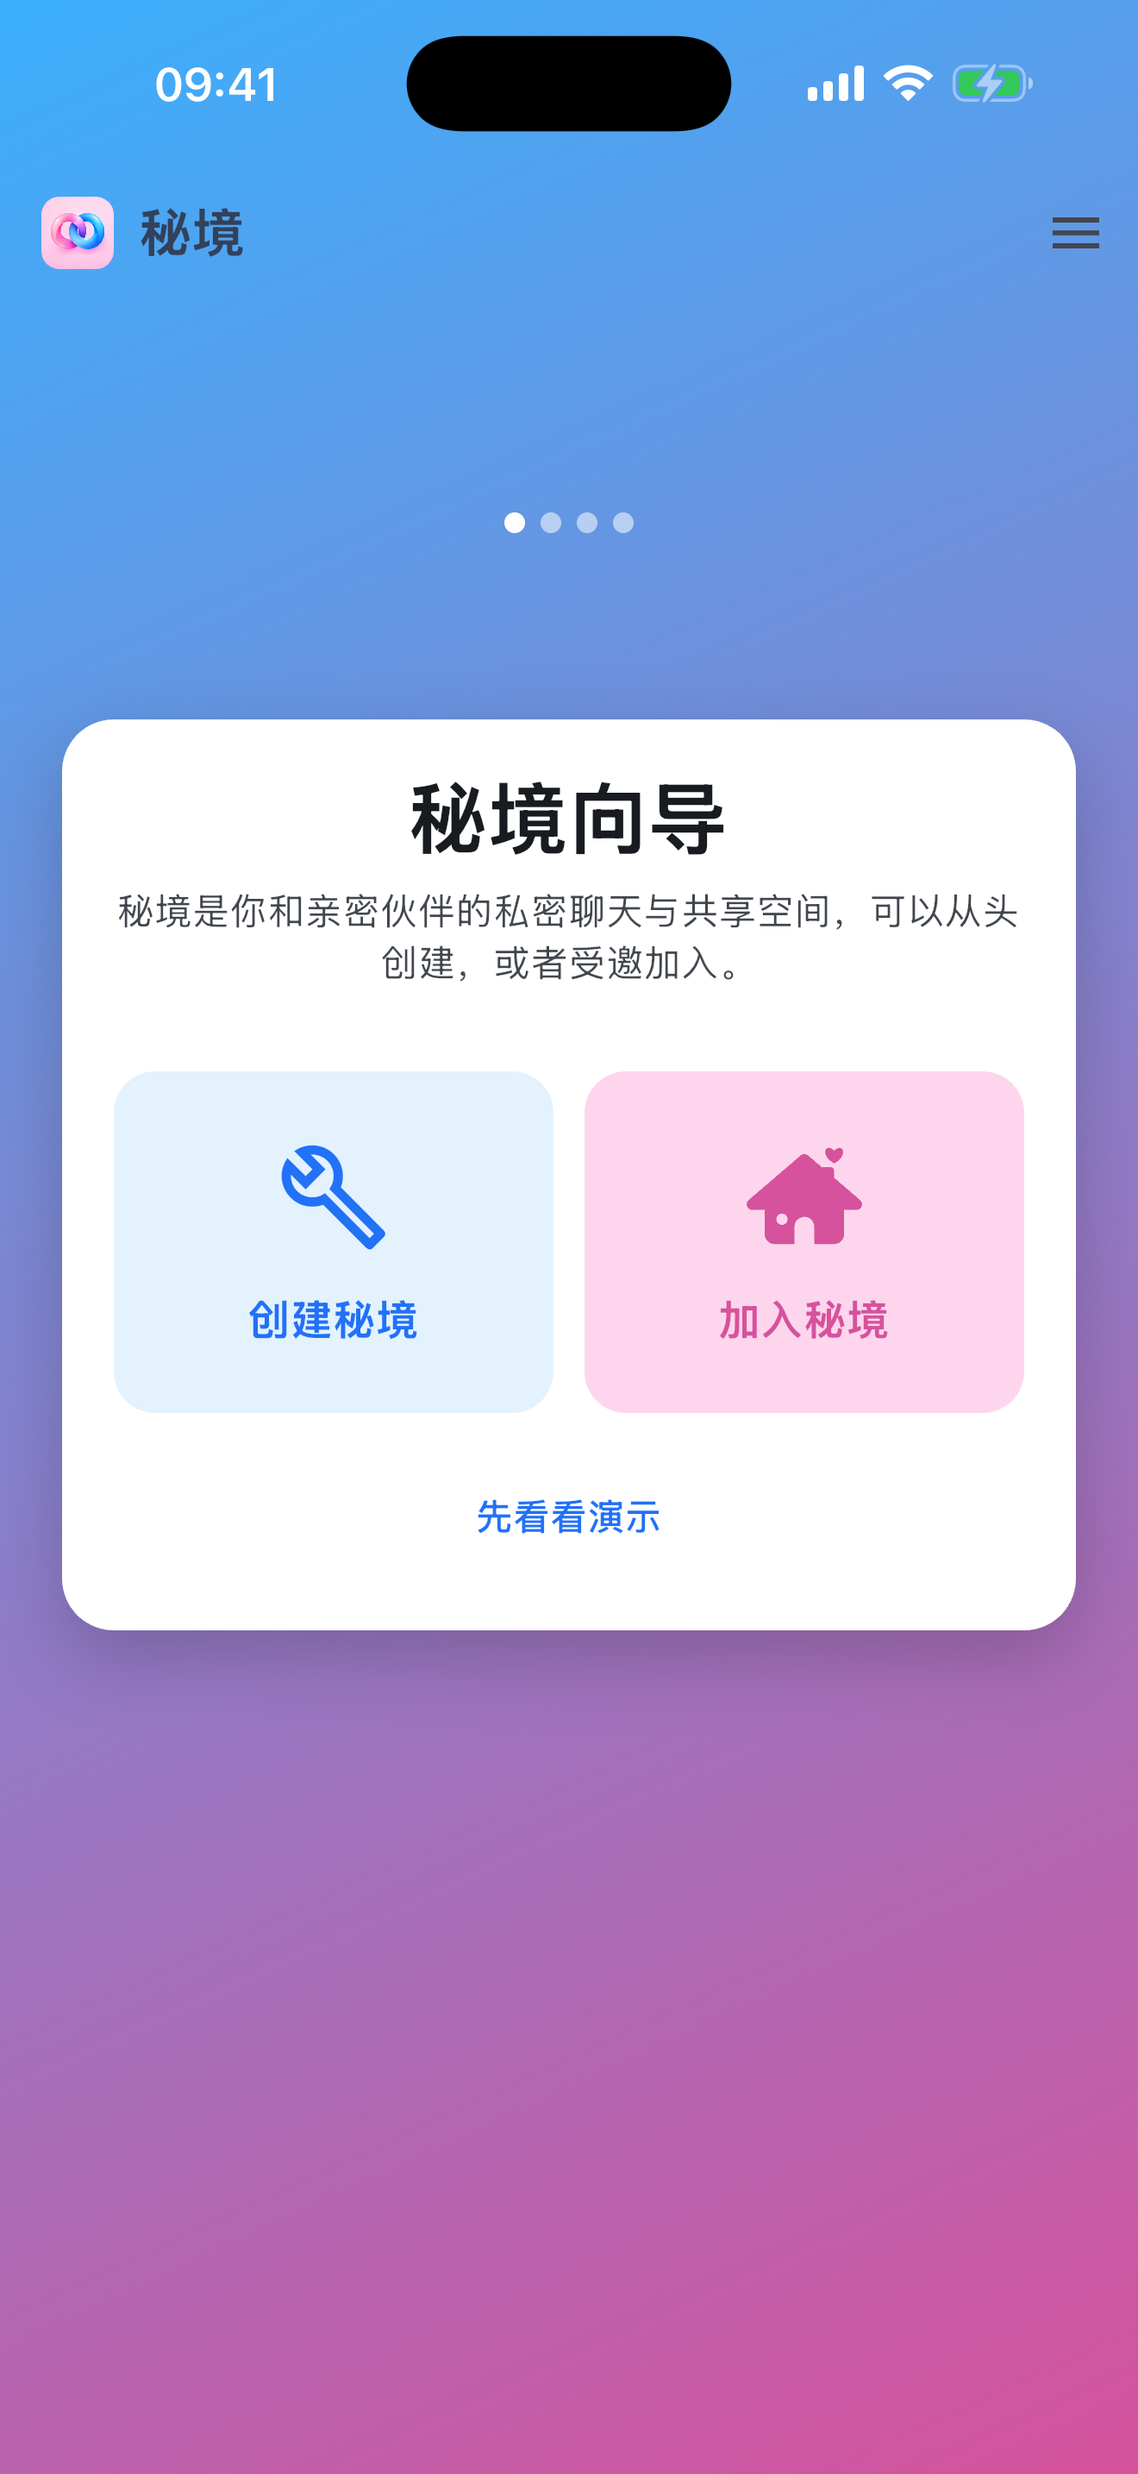
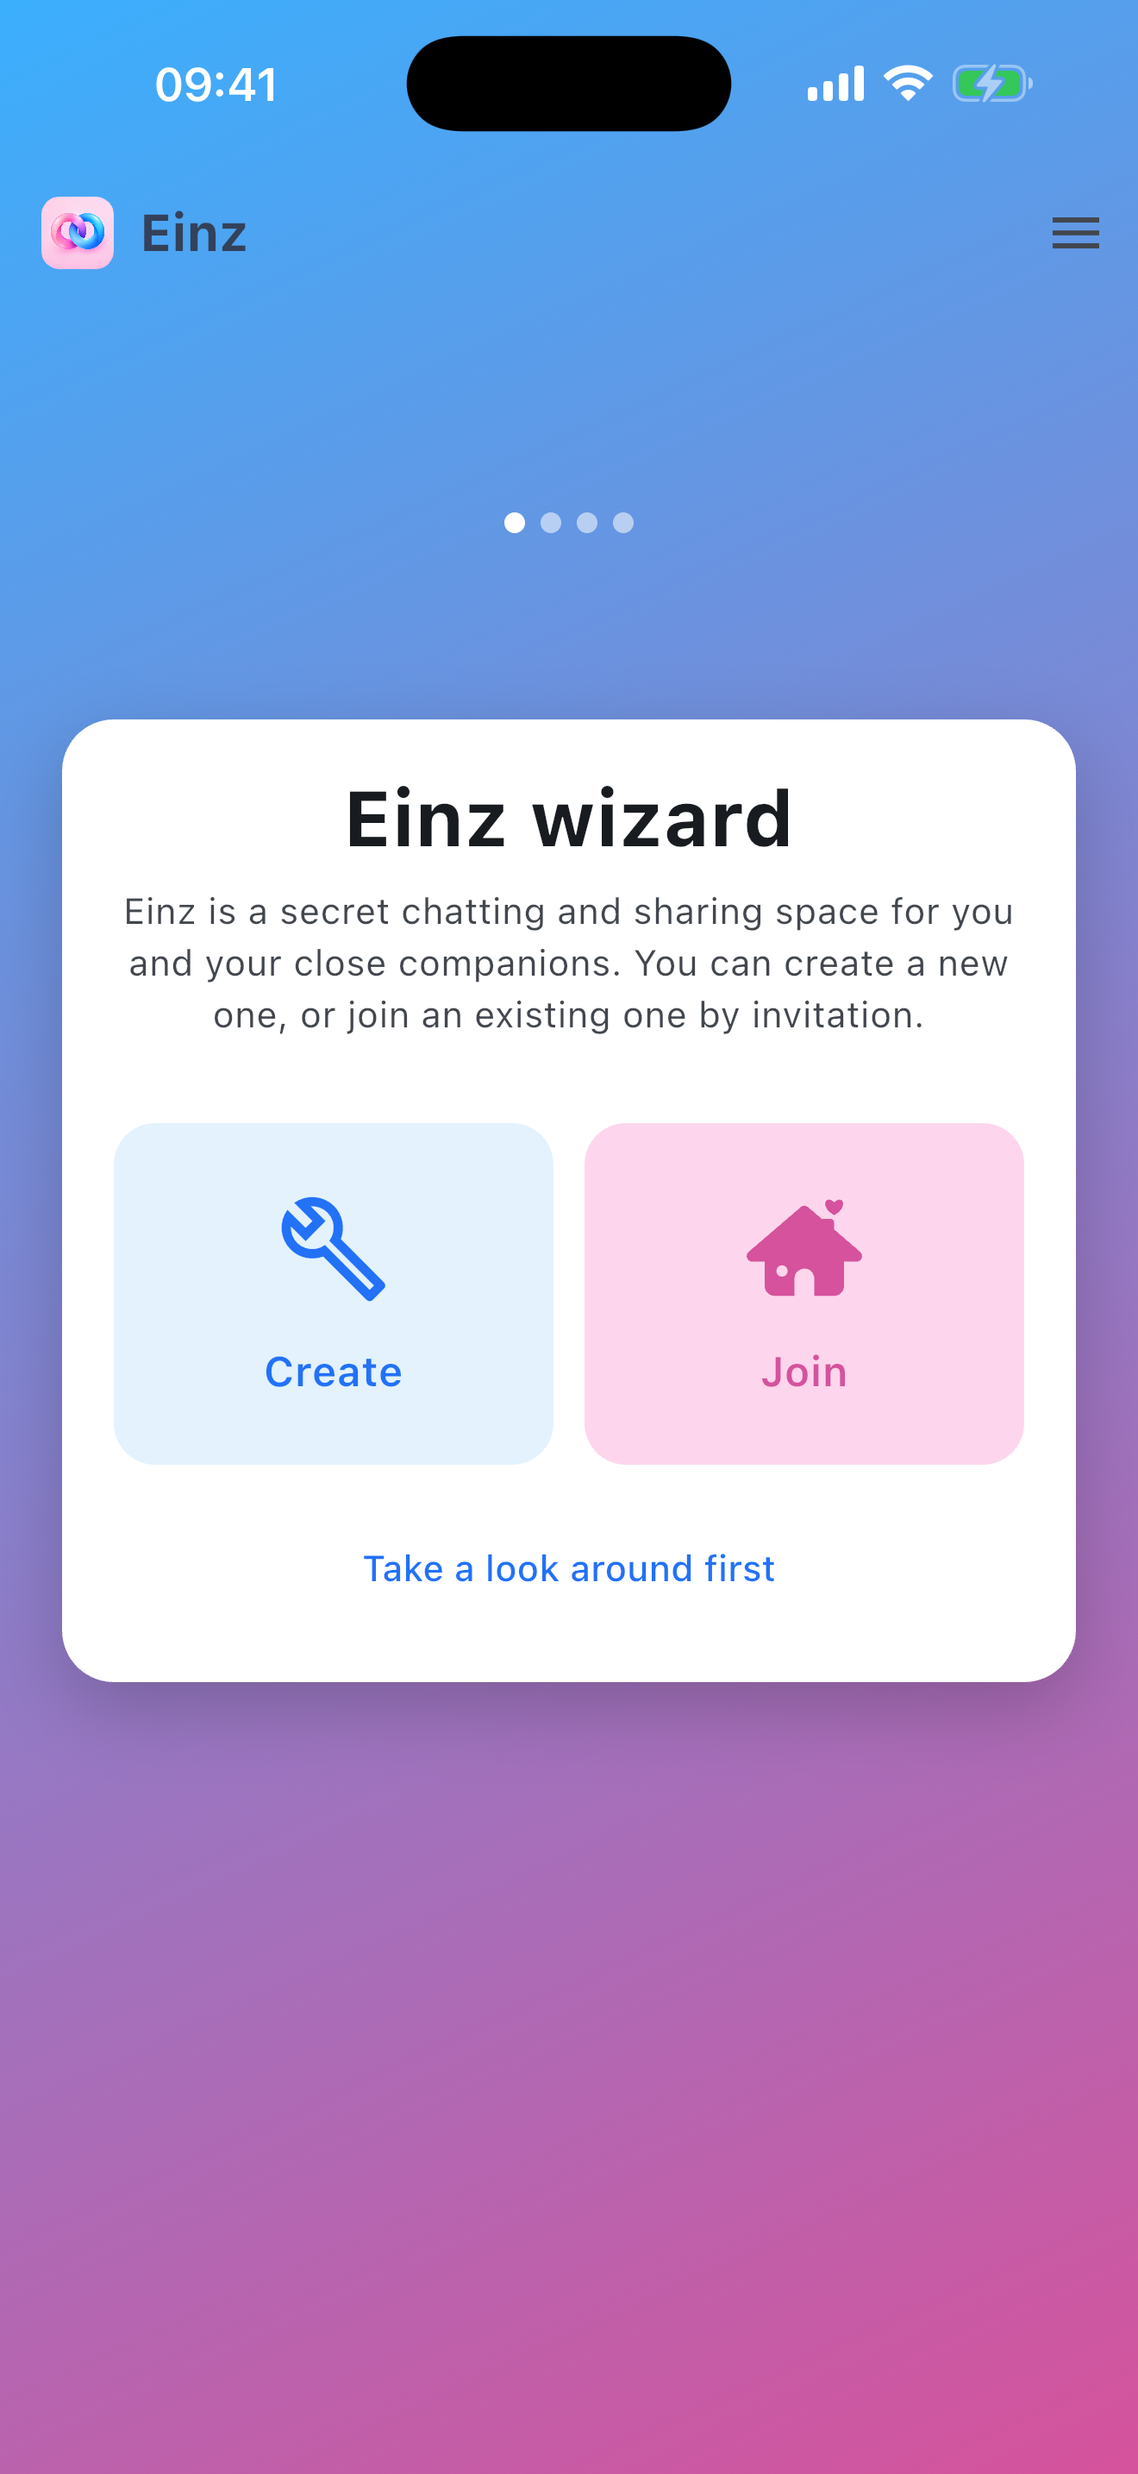
feat: App Store 截图定稿英文版 5 张（老板拍板：突出隐私，分流页替代入口页开篇）
- 去掉长按菜单/附件面板；新增向导 Duo/Group 分流页
- 全部英文版：模拟器切 en-US + 每次全新安装（demo 按英文种入）
- 测试重写 5 截图点；聊天页等待改多探针+30s+可见文本诊断
- ASC 6.9" 最多 4 张：建议 02 分流页→03 聊天→04 焚毁→05 PIN（01 备选）
- appStoreSubmission §4.6 记「内容定稿」

Changed region(s): [[0.0311, 0.3103, 0.9629, 0.6827], [0.1242, 0.0621, 0.2174, 0.1241]]

diff --git a/app/integration_test/screenshots_test.dart b/app/integration_test/screenshots_test.dart
@@ -1,14 +1,20 @@
-// App Store 截图自动化（2026-10-20）：驱动真实 app 进入演示秘境，
-// 在各画面由宿主机 simctl 截图（iOS 沙盒禁止测试内 Process.run，用文件握手）。
+// App Store 截图自动化（2026-10-20 英文版 v2）：驱动真实 app 走英文界面，
+// 由宿主机 simctl 截图（iOS 沙盒禁止测试内 Process.run，用文件握手）。
+//
+// 前置：模拟器语言 en-US（simctl spawn defaults write -g AppleLanguages）
+// + app 全新安装（demo 按英文种入）。
 //
 // 运行（模拟器需已启动）：
 //   bash app/integration_test/screenshots_drive.sh &
 //   cd app && flutter test integration_test/screenshots_test.dart \
 //     -d <SIM_ID> --dart-define=SHOT_DIR=/tmp/einz_shots
 //
-// 画面清单（2026-10-20 老板扩到 6 张；ASC 6.9" 槽位最多传 4 张，提审前取舍）：
-//   01 空间向导首页（新建/加入选择）  02 聊天主界面  03 长按菜单
-//   04 阅后即焚设置弹层（主菜单→阅后即焚）  05 输入栏"+"附件面板  06 锁屏码首次设置
+// 画面清单（2026-10-20 老板定 5 张：突出隐私，去掉交互细节图）：
+//   01 空间向导首页（Create/Join/Demo 三入口）
+//   02 向导分流页（Duo space / Group space——老板认为比 01 更有价值）
+//   03 聊天主界面
+//   04 阅后即焚设置弹层
+//   05 锁屏码首次设置
 import 'dart:io';
 
 import 'package:flutter/material.dart';
@@ -32,110 +38,113 @@ Future<void> _signalStep(WidgetTester tester, int step) async {
   throw StateError('宿主机截图脚本未响应 step $step（60s 超时）');
 }
 
+/// 等某个英文文案出现（最长 [tries] 秒），返回是否出现。
+Future<bool> _waitFor(WidgetTester tester, String text, {int tries = 15}) async {
+  for (var i = 0; i < tries; i++) {
+    if (find.textContaining(text).evaluate().isNotEmpty) return true;
+    await tester.pump(const Duration(milliseconds: 500));
+  }
+  return false;
+}
+
 void main() {
   final binding = IntegrationTestWidgetsFlutterBinding.ensureInitialized();
   binding.framePolicy = LiveTestWidgetsFlutterBindingFramePolicy.fullyLive;
 
-  testWidgets('appstore screenshots', (tester) async {
+  testWidgets('appstore screenshots (english)', (tester) async {
     app.main();
-    // 启动闸：等向导入口页出现（探测真实服务器，最长等 45s）
-    var entryFound = false;
-    for (var i = 0; i < 45; i++) {
-      await tester.pump(const Duration(seconds: 1));
-      if (find.textContaining('Take a look around first').evaluate().isNotEmpty ||
-          find.textContaining('先看看演示').evaluate().isNotEmpty) {
-        entryFound = true;
-        break;
-      }
-    }
-    expect(entryFound, isTrue, reason: '向导入口页未出现（探测失败？）');
-    // 按钮可能在探测完成后重建一次 → 二次等待
-    Finder demoBtn() => find.textContaining('Take a look around first');
-    final demoBtnZh = find.textContaining('先看看演示');
-    for (var i = 0; i < 10; i++) {
-      if (tester.any(demoBtn()) || tester.any(demoBtnZh)) break;
-      await tester.pump(const Duration(seconds: 1));
-    }
-
-    // 01 空间向导首页（创建/加入/演示 三入口）
+    // 启动闸：等向导入口页出现（全新安装 + 英文系统，探测真实服务器最长 45s）
+    final entryOk = await _waitFor(tester, 'Take a look around first', tries: 45);
+    expect(entryOk, isTrue, reason: '向导入口页未出现（探测失败？）');
     await tester.pump(const Duration(seconds: 1));
+
+    // 01 空间向导首页（Create / Join / Take a look around first）
     await _signalStep(tester, 1);
 
-    // 进入演示秘境（中英双匹配；不能写 `.first`——零匹配时抛 StateError）
-    final btn = tester.any(demoBtn()) ? demoBtn().first : demoBtnZh.first;
-    expect(tester.any(btn), isTrue, reason: 'demo 入口按钮不可点');
-    await tester.tap(btn);
-    // 等聊天页消息出现（seeding + 首屏解密）
-    var chatFound = false;
-    for (var i = 0; i < 20; i++) {
-      await tester.pump(const Duration(milliseconds: 500));
-      if (find.textContaining('Welcome to Einz').evaluate().isNotEmpty ||
-          find.textContaining('欢迎来到秘境').evaluate().isNotEmpty) {
-        chatFound = true;
-        break;
-      }
-    }
-    expect(chatFound, isTrue, reason: '演示聊天页未出现');
-    await tester.pump(const Duration(seconds: 1));
+    // —— 向导分流页：Create → 第 1 步填名字+性别 → Next → 第 2 步 Duo/Group ——
+    await tester.tap(find.text('Create').first);
+    final nameOk = await _waitFor(tester, 'Name');
+    expect(nameOk, isTrue, reason: '创建向导第 1 步（名字页）未出现');
+    await tester.enterText(find.byType(TextField).first, 'Alice');
+    await tester.tap(find.text('Female').first);
+    await tester.pump(const Duration(milliseconds: 300));
+    await tester.tap(find.text('Next').first);
+    final kindOk = await _waitFor(tester, 'Duo space');
+    expect(kindOk, isTrue, reason: '向导分流页（Duo/Group）未出现');
+    await tester.pump(const Duration(milliseconds: 500));
 
-    // 02 聊天主界面
+    // 02 向导分流页（Duo space / Group space）
     await _signalStep(tester, 2);
 
-    // 03 长按菜单（气泡文案随设备语言：中英双匹配，选存在的那支）
-    Finder bubbleFinder() => tester.any(find.textContaining('Welcome to Einz'))
-        ? find.textContaining('Welcome to Einz').first
-        : find.textContaining('欢迎来到秘境').first;
-    await tester.longPress(bubbleFinder());
+    // 退回入口页（Back 两次：分流页 → 名字页 → 入口页）
+    await tester.tap(find.text('Back').first);
+    await _waitFor(tester, 'Name');
+    await tester.tap(find.text('Back').first);
+    final backOk = await _waitFor(tester, 'Take a look around first');
+    expect(backOk, isTrue, reason: '退回入口页失败');
     await tester.pump(const Duration(seconds: 1));
-    if (find.text('Quote').evaluate().isNotEmpty ||
-        find.text('引用').evaluate().isNotEmpty) {
-      await _signalStep(tester, 3);
-      await tester.tapAt(const Offset(20, 120)); // 点弹层外关闭
-      await tester.pump(const Duration(seconds: 1));
-    }
 
-    // 04 阅后即焚设置弹层：主菜单（右上汉堡）→「阅后即焚」→ _showBurnPicker
-    // （空间级设置弹层；与长按菜单的单条消息焚毁不同）
+    // 进入演示秘境（首次进入按英文种入 demo 消息）
+    await tester.tap(find.text('Take a look around first').first);
+    // 多探针：列表滚动位置不确定，第一条可能未渲染；任何一条 demo 文案可见即算聊天页
+    const probes = [
+      'Welcome to Einz',
+      'end-to-end encrypted',
+      'disappear after a timer',
+      'lives only on this device',
+    ];
+    var chatOk = false;
+    for (var i = 0; i < 60; i++) {
+      await tester.pump(const Duration(milliseconds: 500));
+      for (final probe in probes) {
+        if (find.textContaining(probe).evaluate().isNotEmpty) {
+          chatOk = true;
+          break;
+        }
+      }
+      if (chatOk) break;
+    }
+    if (!chatOk) {
+      // 诊断：到底停在了哪个画面？把可见文本倒进测试日志
+      final visibleTexts = tester
+          .widgetList<Text>(find.byType(Text))
+          .map((w) => w.data)
+          .where((d) => d != null && d.trim().isNotEmpty)
+          .take(25)
+          .toList();
+      // ignore: avoid_print
+      print('DEMO-WAIT-DIAG visible texts: $visibleTexts');
+    }
+    expect(chatOk, isTrue, reason: '演示聊天页未出现');
+    await tester.pump(const Duration(seconds: 1));
+
+    // 03 聊天主界面
+    await _signalStep(tester, 3);
+
+    // 04 阅后即焚设置弹层：主菜单（右上汉堡）→ Burn-after-read → 空间级设置弹层
     await tester.tap(find.byType(PopupMenuButton<String>).first);
     await tester.pump(const Duration(milliseconds: 500));
-    final burnItem = find.text('Burn-after-read').evaluate().isNotEmpty
-        ? find.text('Burn-after-read')
-        : find.text('阅后即焚');
-    if (burnItem.evaluate().isNotEmpty) {
-      await tester.tap(burnItem.first);
-      await tester.pump(const Duration(milliseconds: 1500)); // 等弹层动画
-      await _signalStep(tester, 4);
-      await tester.tapAt(const Offset(20, 120)); // 点弹层外关闭
-      await tester.pump(const Duration(seconds: 1));
-    }
-
-    // 05 输入栏"+"附件面板（add_circle_outline → _showAttachmentSheet）
-    FocusManager.instance.primaryFocus?.unfocus(); // 收起键盘，避免遮挡面板
-    await tester.pump(const Duration(milliseconds: 500));
-    await tester.tap(find.byIcon(Icons.add_circle_outline).first);
+    final burnOk = await _waitFor(tester, 'Burn-after-read', tries: 5);
+    expect(burnOk, isTrue, reason: '主菜单未出现 Burn-after-read 项');
+    await tester.tap(find.text('Burn-after-read').first);
     await tester.pump(const Duration(milliseconds: 1500)); // 等弹层动画
-    await _signalStep(tester, 5);
+    await _signalStep(tester, 4);
     await tester.tapAt(const Offset(20, 120)); // 点弹层外关闭
     await tester.pump(const Duration(seconds: 1));
 
-    // 06 锁屏码首次设置：主菜单 →「锁屏码/PIN」→ _showSetLockDialog
-    // （演示空间未设 PIN → 首次设置表单；截图后必须取消，绝不能真的给演示设 PIN）
+    // 05 锁屏码首次设置：主菜单 → PIN → Set PIN 弹窗
+    // （演示空间未设 PIN → 首次设置表单；截图后必须取消，绝不在演示里真设 PIN）
     await tester.tap(find.byType(PopupMenuButton<String>).first);
     await tester.pump(const Duration(milliseconds: 500));
-    final pinItem = find.text('PIN').evaluate().isNotEmpty
-        ? find.text('PIN')
-        : find.text('锁屏码');
-    if (pinItem.evaluate().isNotEmpty) {
-      await tester.tap(pinItem.first);
-      await tester.pump(const Duration(seconds: 1));
-      final dialogOpen = find.text('Set PIN').evaluate().isNotEmpty ||
-          find.text('设置锁屏码').evaluate().isNotEmpty;
-      expect(dialogOpen, isTrue, reason: 'PIN 设置弹窗未出现');
-      FocusManager.instance.primaryFocus?.unfocus(); // 收键盘：弹窗是主体，键盘抢戏
-      await tester.pump(const Duration(milliseconds: 800));
-      await _signalStep(tester, 6);
-      await tester.tap(find.byType(CancelButton).first); // 只看不设
-      await tester.pump(const Duration(seconds: 1));
-    }
+    final pinOk = await _waitFor(tester, 'PIN', tries: 5);
+    expect(pinOk, isTrue, reason: '主菜单未出现 PIN 项');
+    await tester.tap(find.text('PIN').first);
+    final dialogOk = await _waitFor(tester, 'Set PIN');
+    expect(dialogOk, isTrue, reason: 'Set PIN 弹窗未出现');
+    FocusManager.instance.primaryFocus?.unfocus(); // 收键盘：弹窗是主体，键盘抢戏
+    await tester.pump(const Duration(milliseconds: 800));
+    await _signalStep(tester, 5);
+    await tester.tap(find.byType(CancelButton).first); // 只看不设
+    await tester.pump(const Duration(seconds: 1));
   });
 }

diff --git a/aimemo/worklog.md b/aimemo/worklog.md
@@ -15296,3 +15296,5 @@ plutil/PowerShell VersionInfo/strings 各读法均为平台标准机制。CI 下
 **（2026-10-20T09:08:58Z / 2026-10-20 17:08）**：App Store 名称字段定为 `Einz — Your Secret Realm`（23 字符，老板定夺，喜欢 realm 品牌红利）；原 `Einz — Private Space` 弃用。落点 appStoreSubmission §4.1。副标题维持 `End-to-end encrypted` 未动。
 
 **（2026-10-20T11:45:37Z / 2026-10-20 19:45）**：App Store 截图扩到 6 个截图点（老板点名 4 张新增：空间向导首页、锁屏码首次设置、阅后即焚设置页、聊天页"+"菜单；连同原聊天主界面/长按菜单）。screenshots_test.dart 重写：01 向导入口页（进演示前抓）→ 02 聊天主界面 → 03 长按菜单 → 04 阅后即焚设置弹层（右上主菜单→「阅后即焚」，空间级 _showBurnPicker；旧版走长按菜单单条消息路径且实际从未截成）→ 05 输入栏 add_circle_outline→_showAttachmentSheet → 06 主菜单→「锁屏码」→_showSetLockDialog（首次设置表单；截图后点取消，绝不在演示里真设 PIN；截图前 unfocus 收键盘，弹窗才是主体）。驱动脚本 names 扩到 6、旧 demo 按钮文案 'demo, no sign-up' 过期改为 'Take a look around first'。踩坑：CancelButton 是项目自定义组件（widgets/cancel_button.dart），测试要显式 import 否则编译失败。6 张全部产出并逐张人工核对通过（中文界面：向导三入口/聊天双头像/长按菜单/焚毁滑杆面板/8 宫格附件面板/PIN 弹窗）。仓库截图 app/screenshots/iphone_6_9/ 换为 01_wizard_entry…06_pin_setup（旧 01_chat_main/02_long_press_menu 文件名随重编号替换）。**ASC 6.9" 槽位最多传 4 张**，6 选 4 由老板定。
+
+**（2026-10-20T12:44:47Z / 2026-10-20 20:44）**：App Store 截图定稿英文版 5 张（老板拍板：去掉长按菜单/附件面板两张交互细节图——"聊天软件功能大同小异，Einz 要突出隐私"；新增向导 duo/group 分流页"也许比 01 更好"；全部改英文版重做）。执行：模拟器永久切 en-US（simctl spawn defaults write -g AppleLanguages/-AppleLocale，已记 memory）+ 每次跑前卸载 app 全新安装（demo 才按英文种入）。测试重写为 5 截图点：01 向导入口 → 02 分流页（Create→填名字 Alice+性别 Female→Next→Duo/Group 页→Back×2 退回）→ 03 聊天主界面（英文 demo）→ 04 阅后即焚设置 → 05 Set PIN（收键盘+点取消不设真 PIN）。踩坑三轮：①首跑聊天页等待文案 'Welcome to Einz' 未现（7.5s 不够/滚动位置），改多探针+30s+失败时 widgetList<Text> 倒可见文本诊断；②widgetList 忘泛型化编译失败。最终 5 张全过（入口新英文文案生效/分流页/聊天双头像/焚毁滑杆/PIN 弹窗）。仓库 app/screenshots/iphone_6_9/ 换为 01_wizard_entry…05_pin_setup。**ASC 6.9" 最多传 4 张**，建议 02→03→04→05（01 备选），已记 appStoreSubmission §4.6「内容定稿」。

diff --git a/aimemo/appStoreSubmission.zhcn.md b/aimemo/appStoreSubmission.zhcn.md
@@ -197,9 +197,9 @@ First release on the App Store.
 | 项 | 要求 |
 | --- | --- |
 | 尺寸 | 6.9"（1320×2868 或 1290×2796）与 6.5"（1284×2778 / 1242×2688）两组，各至少 1 张（建议 3–6 张）；iPad 另备 13"（2064×2752） |
-| 内容建议 | ①聊天主界面（用演示秘境摆拍——内容是硬编码演示文案，无隐私问题）②阅后即焚/撤回长按菜单 ③空间列表（双人+群组配色卡）④PIN 锁屏/自动锁定 |
+| 内容定稿 | 2026-10-20 老板拍板 5 张英文版（全部演示秘境摆拍）：`app/screenshots/iphone_6_9/` 01 向导入口 / 02 分流页（Duo/Group）/ 03 聊天主界面 / 04 阅后即焚设置 / 05 锁屏码设置。**ASC 6.9" 槽位最多传 4 张**，建议上传：02 分流页（开篇——一眼看懂双人/群组两种形态，老板认为比 01 入口页更好）→ 03 聊天主界面 → 04 阅后即焚 → 05 锁屏码；01 入口页留作备选。逻辑：聊天软件功能大同小异，Einz 突出隐私——分流页讲形态、后三张讲体验+两个隐私杀手锏 |
+| 摆拍注意 | 别用真实空间截图（会暴露真实聊天）；演示秘境专为这个场景存在。自动化流水线：`app/integration_test/screenshots_test.dart` + `screenshots_drive.sh`（文件握手 + simctl 截图）；模拟器需 en-US + app 全新安装（demo 才按英文种入） |
 | 预览视频 | 可选；如做，演示秘境里录收发/焚化动画最直观 |
-| 摆拍注意 | 别用真实空间截图（会暴露真实聊天）；演示秘境专为这个场景存在 |
 
 ### 4.7 提交前还差的账号动作（老板手动）
 
